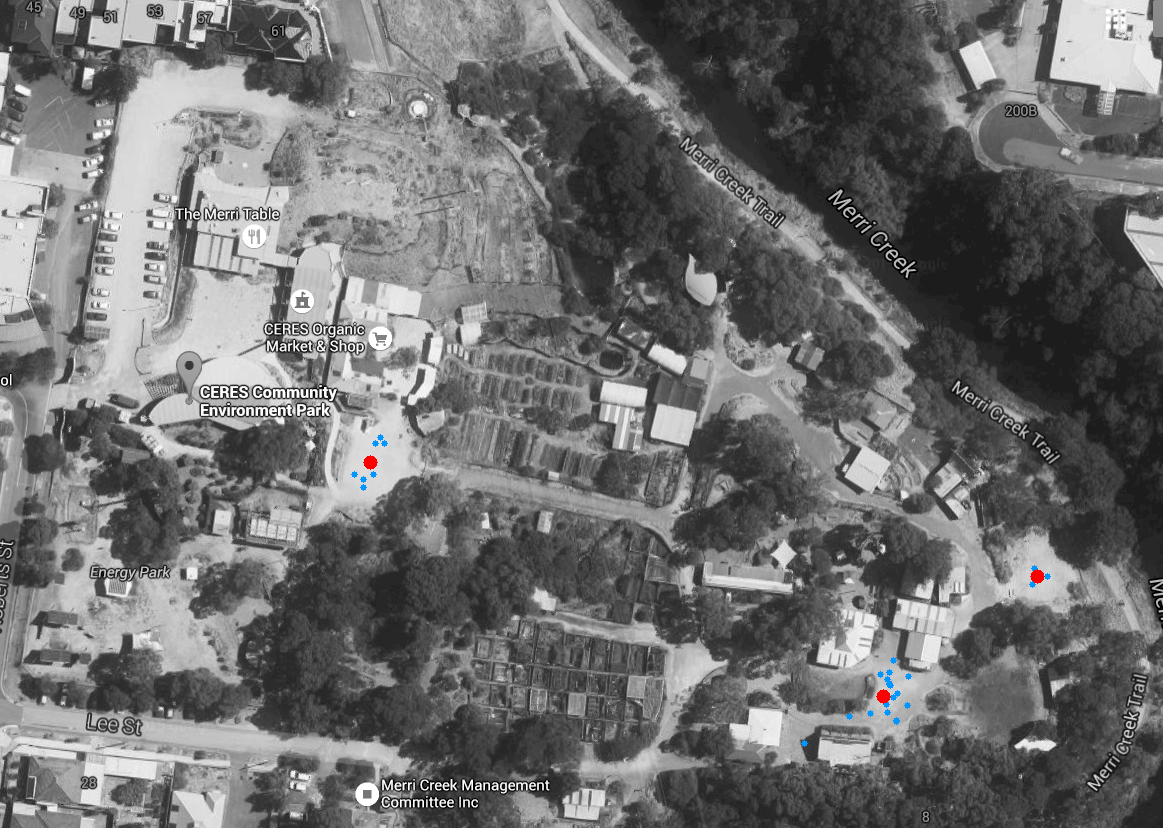
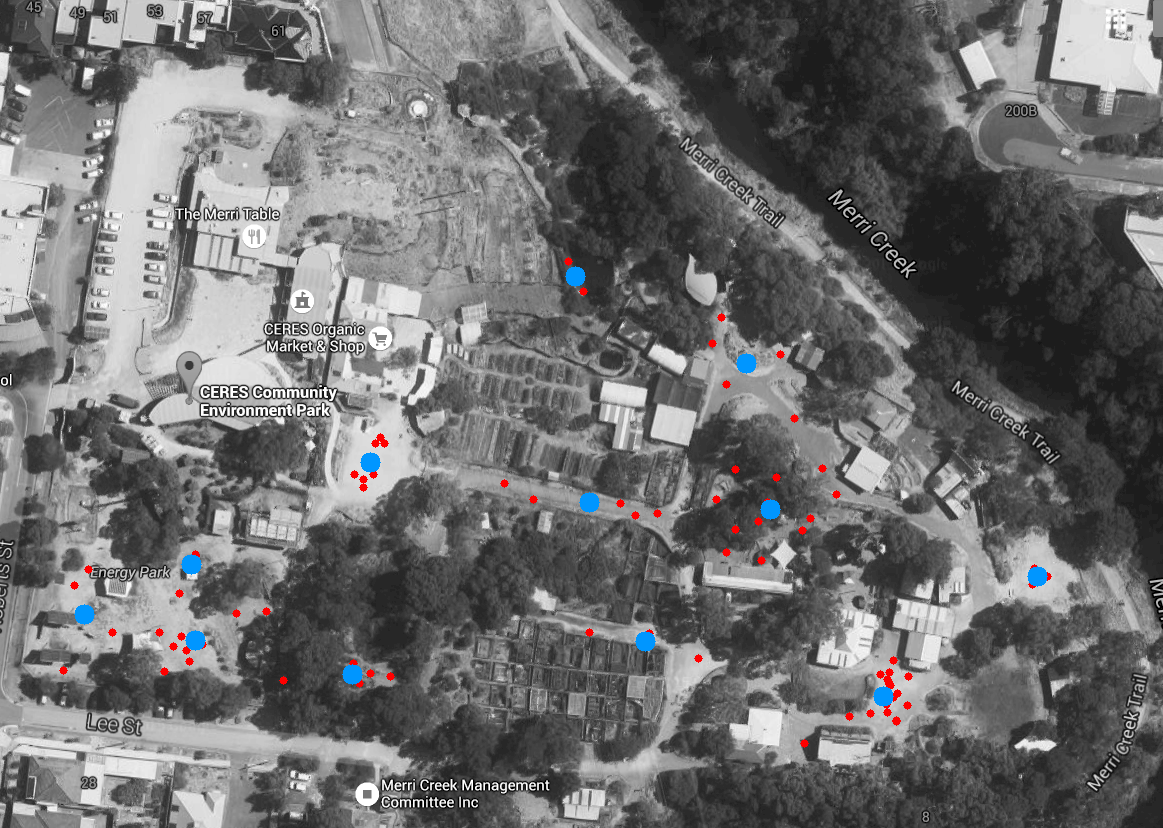
Heatmap nearly finished.

diff --git a/iqp.py b/iqp.py
@@ -5,12 +5,28 @@ import numpy as np
 import cv2
 from sklearn.cluster import KMeans
 
-def main(n_observations, n_clusters):
-    base_img = cv2.imread('images/satellite.png', cv2.IMREAD_COLOR)
+import matplotlib.pyplot as plt
+from scipy.stats import kde
+
+from PIL import Image
+
+
+#images are 1163 x 828
+x_min = 0
+x_max = 1163
+y_min = 0
+y_max = 828
+satellite_file = "images/satellite.png"
+observation_file = "observations/observation_0"
+observation_file_ext = ".png"
+heatmap_file = "output/heat_map.png"
+
+def main(n_observations, n_clusters, n_bins):
+    base_img = cv2.imread(satellite_file, cv2.IMREAD_COLOR)
     assert base_img is not None, "data_img did not load."
     data = []
     for i in xrange(1, n_observations + 1):
-        data_file = "observations/observation_0" + str(i) + ".png"
+        data_file = observation_file + str(i) + observation_file_ext
         data_img = cv2.imread(data_file, cv2.IMREAD_COLOR)
         assert data_img is not None, "data_img did not load: " + data_file
         img = base_img - data_img
@@ -27,19 +43,65 @@ def main(n_observations, n_clusters):
     #print kmeans.cluster_centers_
     #print data
     for x, y in data:
-        cv2.circle(output_img,(int(y), int(x)), 3, (255,150,0), -1)
+        cv2.circle(output_img,(int(y), int(x)), 4, (0,0,255), -1)
     cv2.imwrite('output/input_data.png', output_img)
+    cv2.imwrite('output/raw_data.png', output_img - base_img)
     for x, y in kmeans.cluster_centers_:
-        cv2.circle(output_img, (int(y), int(x)), 7, (0,0,255), -1)
+        cv2.circle(output_img, (int(y), int(x)), 10, (255,150,0), -1)
     cv2.imshow('image', output_img)
+    cv2.imwrite('output/output_clusters.png', output_img)
+    cv2.imwrite('output/raw_clusters.png', output_img - base_img)
+
+    heat_map(data, n_bins, output_img)
+
+
+# from http://stackoverflow.com/questions/19390320/scatterplot-contours-in-matplotlib
+def heat_map(data, n_bins, output_img):
+    data = np.array(data)
+    x, y = [i[0] for i in data], [j[1] for j in data]
+    fig, axes = plt.subplots(ncols=1, nrows=1, sharex=True, sharey=True)
+
+    # Evaluate a gaussian kde on a regular grid of n_bins x n_bins over data extents
+    k = kde.gaussian_kde(data.T)
+    xi, yi = np.mgrid[y_min:y_max:n_bins*1j, x_min:x_max:n_bins*1j] #xi, yi = np.mgrid[x.min():x.max():n_bins*1j, y.min():y.max():n_bins*1j]
+    zi = k(np.vstack([xi.flatten(), yi.flatten()]))
+
+    #axes.set_title('Gaussian KDE')
+    axes.pcolormesh(xi, yi, zi.reshape(xi.shape))
+    plt.ylim((x_min, x_max))
+    plt.xlim((y_min, y_max))
+    plt.axis('off')
+    fig.tight_layout()
+    plt.savefig('output/foo.png', bbox_inches='tight')
+    plt.show()
+
+    #rotate clockwise 
+    #img = cv2.imread('', cv2.IMREAD_COLOR)
+    
+    src_im = Image.open("output/foo.png")
+    angle = 270
+    size = x_max, y_max
+
+    #dst_im = Image.new("RGBA", (x_max, y_max), "blue" )
+    im = src_im.convert('RGBA')
+    rot = im.rotate( angle, expand=1 ).resize(size)
+    #dst_im.paste( rot, (50, 50), rot )
+    rot.save("output/new_foo.png")
+
+    heat_img = cv2.imread('output/new_foo.png', cv2.IMREAD_COLOR)
+    dst = cv2.addWeighted(output_img, 0.5, heat_img, 0.5, 0)
+    cv2.imshow('dst', dst)
     cv2.waitKey(0)
     cv2.destroyAllWindows()
-    cv2.imwrite('output/output_clusters.png', output_img)
+    cv2.imwrite(heatmap_file, dst)
 
+    
+    
 if __name__ == "__main__":
     np.random.seed(13)
     parser = argparse.ArgumentParser()
-    parser.add_argument("-o", "--n_observations", default=1, type=int)
-    parser.add_argument("-c", "--n_clusters", default=1, type=int)
+    parser.add_argument("-o", "--n_observations", default=4, type=int)
+    parser.add_argument("-c", "--n_clusters", default=12, type=int)
+    parser.add_argument("-b", "--n_bins", default=1000, type=int)
     args = parser.parse_args()
-    main(args.n_observations, args.n_clusters)
+    main(args.n_observations, args.n_clusters, args.n_bins)

diff --git a/test.py b/test.py
@@ -1,0 +1,35 @@
+#!/usr/bin/python
+
+import numpy as np
+import matplotlib.pyplot as plt
+from scipy.stats import kde
+
+np.random.seed(1977)
+
+# Generate 200 correlated x,y points
+data = np.random.multivariate_normal([0, 0], [[1, 0.5], [0.5, 3]], 200)
+x, y = data.T
+
+nbins = 20
+
+fig, axes = plt.subplots(ncols=2, nrows=2, sharex=True, sharey=True)
+
+axes[0, 0].set_title('Scatterplot')
+axes[0, 0].plot(x, y, 'ko')
+
+axes[0, 1].set_title('Hexbin plot')
+axes[0, 1].hexbin(x, y, gridsize=nbins)
+
+axes[1, 0].set_title('2D Histogram')
+axes[1, 0].hist2d(x, y, bins=nbins)
+
+# Evaluate a gaussian kde on a regular grid of nbins x nbins over data extents
+k = kde.gaussian_kde(data.T)
+xi, yi = np.mgrid[x.min():x.max():nbins*1j, y.min():y.max():nbins*1j]
+zi = k(np.vstack([xi.flatten(), yi.flatten()]))
+
+axes[1, 1].set_title('Gaussian KDE')
+axes[1, 1].pcolormesh(xi, yi, zi.reshape(xi.shape))
+
+fig.tight_layout()
+plt.show()
